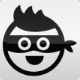
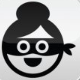
.

diff --git a/aab/aab.js b/aab/aab.js
@@ -1,3 +1,5 @@
+let die = null;
+
 let blockList = [
     {
         index: 0,
@@ -1254,7 +1256,7 @@ let data = {
             styleObject: {
                 left: '1800px',
                 top: '700px',
-                backgroundImage: 'url(image/burglar/1.png)'
+                backgroundImage: 'url(image/burglar/0.png)'
             },
             position: 0
         },
@@ -1262,7 +1264,7 @@ let data = {
             styleObject: {
                 left: '1830px',
                 top: '700px',
-                backgroundImage: 'url(image/burglar/2.png)'
+                backgroundImage: 'url(image/burglar/1.png)'
             },
             position: 0
         },
@@ -1270,7 +1272,7 @@ let data = {
             styleObject: {
                 left: '1860px',
                 top: '700px',
-                backgroundImage: 'url(image/burglar/3.png)'
+                backgroundImage: 'url(image/burglar/2.png)'
             },
             position: 0
         }
@@ -1302,11 +1304,54 @@ let app = new Vue({
                 Vue.set(app.buildingList, index, building);
             });
         },
-        computePixel: function (pixel, diff) {
+
+        processPixel: function (pixel, diff) {
             let value = pixel.replace('px', '');
             return (diff + parseInt(value)) + 'px';
         },
 
+        getCurrentBurglar: function () {
+            return app.burglarList[app.status.turn];
+        },
+
+        getSelectedBlock: function (event) {
+            let index = $(event.target).attr('data-index');
+            return app.blockList[index];
+        },
+
+        move: function (event) {
+            let $currentBurglar = $('.burglarCharacter').eq(app.status.turn);
+            let $selectedBlock = $(event.target);
+            let offset = app.status.turn * 30;
+
+            $currentBurglar.animate({
+                left: $selectedBlock.offset().left + offset,
+                top: $selectedBlock.offset().top,
+            }, 1000, function () {
+                app.backgroundInactive();
+                app.removeBlinkBlock();
+                app.nextTurn();
+            });
+        },
+        
+        nextTurn: function () {
+            app.status.turn++;
+
+            if (app.status.turn === 3) {
+                app.status.turn = 0;
+
+                if (app.status.burglarTurn) {
+                    app.status.burglarTurn = false;
+                    app.status.policeTurn = true;
+                } else if (app.status.policeTurn) {
+                    app.status.policeTurn = false;
+                    app.status.burglarTurn = true;
+                }
+            }
+
+            app.rollDie();
+        },
+        
         hideJewelryAtBuilding: function (event) {
             let index = $(event.target).attr('data-index');
             let building = this.buildingList[index];
@@ -1343,6 +1388,29 @@ let app = new Vue({
             });
         },
 
+        rollDie: function () {
+            $('.turnImage').attr('src', 'image/burglar/' + app.status.turn + '.png');
+
+            let $turnModal = $('#turnModal').modal();
+
+            if (die == null) {
+                die = new Die(function (count) {
+                    $turnModal.modal('hide');
+
+                    let currentBurglar = app.burglarList[app.status.turn];
+                    let resultList = [];
+
+                    app.go(count, currentBurglar.position, currentBurglar.position, resultList);
+
+                    app.backgroundActive();
+
+                    app.blinkBlock(resultList);
+                });
+
+                $('#die').append(die.$element);
+            }
+        },
+        
         readyToPlay: function () {
             app.background.classObject.backgroundActive = false;
             app.resetBuilding();
@@ -1352,24 +1420,11 @@ let app = new Vue({
             app.jewelryList.forEach((target) => target.styleObject.display = 'none');
             app.hiddenPolice.styleObject.display = 'none';
 
-            $('.turnImage').attr('src', 'image/burglar/' + (app.status.turn + 1) + '.png');
+            app.rollDie();
+        },
 
-            let $turnModal = $('#turnModal').modal();
-
-            let die = new Die(function (count) {
-                $turnModal.modal('hide');
-
-                let currentBurglar = app.burglarList[app.status.turn];
-                let resultList = [];
-
-                app.go(count, currentBurglar.position, currentBurglar.position, resultList);
-
-                app.backgroundActive();
-
-                app.blinkBlock(resultList);
-            });
-
-            $('#die').append(die.$element);
+        removeBlinkBlock: function (indexList) {
+            app.blockList.forEach(block => block.classObject.blink = false);
         },
 
         blinkBlock: function (indexList) {

diff --git a/aab/index.html b/aab/index.html
@@ -16,12 +16,15 @@
 <body>
 <div id="app">
     <div v-bind:class="background.classObject"></div>
+
     <div v-bind:style="hiddenPolice.styleObject"
         v-bind:class="hiddenPolice.classObject"></div>
+
     <div class="block"
          v-for="block in blockList"
          v-bind:style="block.styleObject"
-         v-bind:class="block.classObject">
+         v-bind:class="block.classObject"
+         v-on:click="move">
             <strong v-bind:style="block.titleStyleObject">{{ block.title }}</strong>
             <div v-if="block.subTitle" style="font-size: 11px">{{ block.subTitle }}</div>
             <div v-if="block.trick" v-bind:class="{ trick: block.trick }">
@@ -32,12 +35,12 @@
             </div>
     </div>
 
-    <div class="character"
+    <div class="character burglarCharacter"
          v-for="burglar in burglarList"
          v-bind:class="burglar.classObject"
          v-bind:style="burglar.styleObject"></div>
 
-    <div class="character"
+    <div class="character policeCharacter"
          v-for="police in policeList"
          v-bind:class="police.classObject"
          v-bind:style="police.styleObject"></div>

diff --git a/aab/aab.css b/aab/aab.css
@@ -35,6 +35,7 @@
     height: 30px;
     background-size: cover;
     display: none;
+    z-index: 300;
 }
 
 .policeCharacter {
@@ -149,7 +150,7 @@ body {
 .background {
     position: absolute;
     width: 100%;
-    height: 100%;
+    height: 100vh;
     z-index: 0;
 }
 
